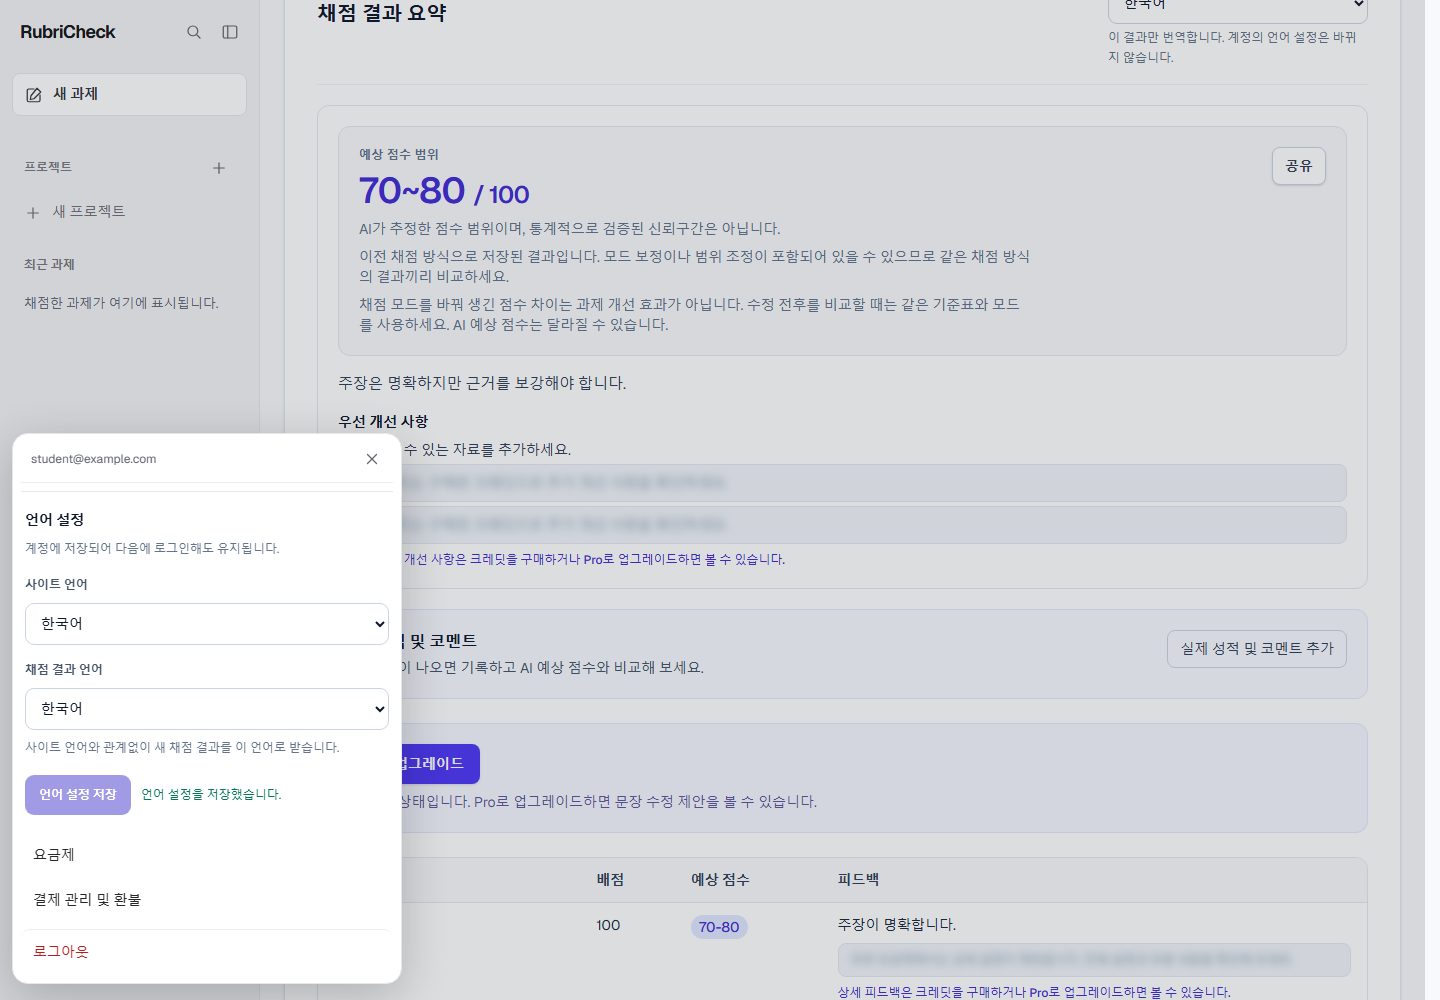
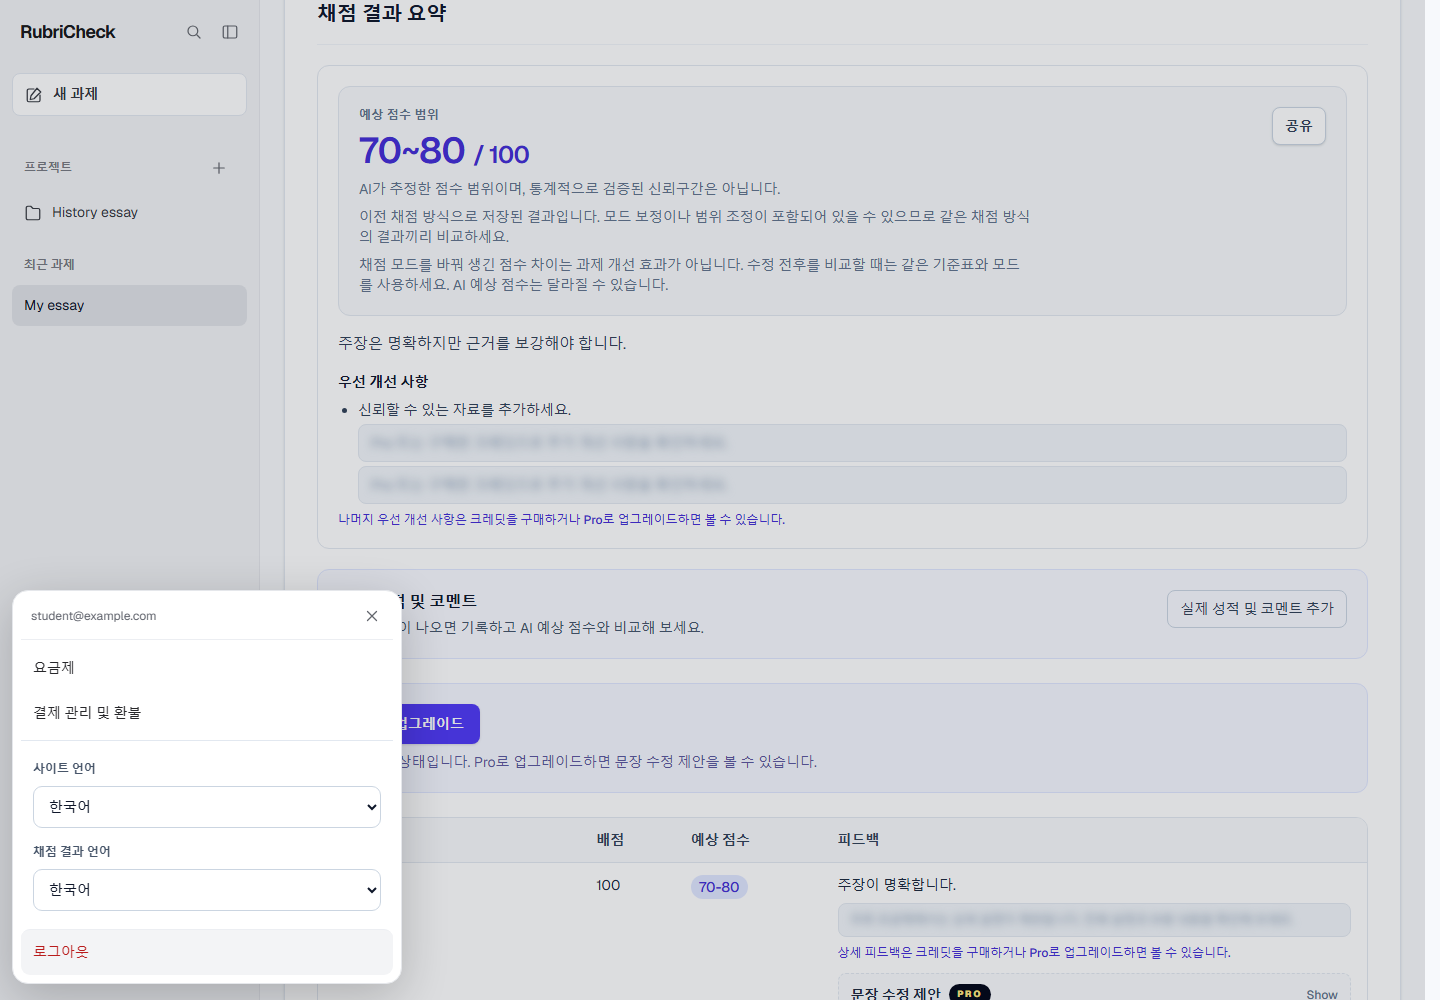
다국어

diff --git a/app/components/LanguageSettings.tsx b/app/components/LanguageSettings.tsx
@@ -1,7 +1,7 @@
 "use client";
 
-import { useEffect, useId, useState } from "react";
-import { LANGUAGE_NAMES, LOCALES, type Locale } from "../../src/i18n/config";
+import { useEffect, useId, useRef, useState } from "react";
+import { LANGUAGE_NAMES, LOCALES, type LanguagePreferences, type Locale } from "../../src/i18n/config";
 import { useLanguage } from "./LanguageProvider";
 import { useAccountSummary } from "./AccountSummaryProvider";
 import styles from "./language.module.css";
@@ -12,32 +12,36 @@ export function LanguageSettings() {
   const [site, setSite] = useState(siteLanguage);
   const [result, setResult] = useState(resultLanguage);
   const [saving, setSaving] = useState(false);
-  const [status, setStatus] = useState("");
   const [error, setError] = useState("");
+  const pending = useRef(false);
+  const owner = useRef(signedInEmail);
+  owner.current = signedInEmail;
   const id = useId();
-  useEffect(() => { setSite(siteLanguage); setResult(resultLanguage); }, [siteLanguage, resultLanguage]);
-  useEffect(() => { setStatus(""); setError(""); }, [signedInEmail]);
-  const changed = site !== siteLanguage || result !== resultLanguage;
-  return <form className={styles.settings} onSubmit={async event => {
-    event.preventDefault(); if (saving || preferencesLoading) return;
-    setSaving(true); setError(""); setStatus("");
-    try { await savePreferences({ siteLanguage: site, resultLanguage: result }); setStatus(signedInEmail ? "Language preferences saved." : "Language changed for this browser."); }
-    catch (error) { setError(error instanceof Error ? error.message : "Could not save language preferences. Try again."); }
-    finally { setSaving(false); }
-  }}>
-    <h3>{t("Language preferences")}</h3>
-    <p className={styles.help}>{t(signedInEmail ? "Saved to your account for your next visit." : "Log in to save both languages to your account.")}</p>
+  useEffect(() => { setSite(siteLanguage); setResult(resultLanguage); setError(""); }, [siteLanguage, resultLanguage, signedInEmail]);
+  async function change(preferences: LanguagePreferences) {
+    if (pending.current || preferencesLoading || (preferences.siteLanguage === siteLanguage && preferences.resultLanguage === resultLanguage)) return;
+    const email = signedInEmail;
+    pending.current = true;
+    setSaving(true); setError("");
+    setSite(preferences.siteLanguage); setResult(preferences.resultLanguage);
+    try { await savePreferences(preferences); }
+    catch {
+      if (owner.current === email) {
+        setSite(siteLanguage); setResult(resultLanguage);
+        setError("Could not save language preferences. Try again.");
+      }
+    } finally { pending.current = false; setSaving(false); }
+  }
+  return <div className={styles.settings} aria-busy={saving || preferencesLoading}>
     <label htmlFor={id + "-site"}>{t("Site language")}</label>
-    <select id={id + "-site"} value={site} disabled={saving || preferencesLoading} onChange={event => { setSite(event.target.value as Locale); setStatus(""); }}>
+    <select id={id + "-site"} value={site} disabled={saving || preferencesLoading} onChange={event => void change({ siteLanguage: event.target.value as Locale, resultLanguage: result })}>
       {LOCALES.map(locale => <option key={locale} value={locale} lang={locale}>{LANGUAGE_NAMES[locale]}</option>)}
     </select>
     <label htmlFor={id + "-result"}>{t("Grading result language")}</label>
-    <select id={id + "-result"} value={result} disabled={saving || preferencesLoading} onChange={event => { setResult(event.target.value as Locale); setStatus(""); }}>
+    <select id={id + "-result"} value={result} disabled={saving || preferencesLoading} onChange={event => void change({ siteLanguage: site, resultLanguage: event.target.value as Locale })}>
       {LOCALES.map(locale => <option key={locale} value={locale} lang={locale}>{LANGUAGE_NAMES[locale]}</option>)}
     </select>
-    <p className={styles.help}>{t("New feedback will use this language, independently of the site language.")}</p>
     {preferencesError && <p className={styles.error} role="alert">{t(preferencesError)} <button type="button" onClick={retryPreferences}>{t("Try again")}</button></p>}
     {error && <p className={styles.error} role="alert">{t(error)}</p>}
-    <div className={styles.saveRow}><button className={styles.save} type="submit" disabled={saving || preferencesLoading || !changed}>{t(saving ? "Saving…" : preferencesLoading ? "Loading…" : "Save languages")}</button><span role="status">{t(status)}</span></div>
-  </form>;
+  </div>;
 }

diff --git a/app/HomePageClient.tsx b/app/HomePageClient.tsx
@@ -3350,6 +3350,7 @@ export default function Home() {
         {displayedResult && resultOwnerEmail === signedInEmail && workspaceView !== "project" ? (
           <section ref={evaluationCaptureRef} className="rounded-2xl border border-slate-200 bg-white p-6 shadow-sm md:p-8">
             <div className={workspaceStyles.contextBar}>
+              <div className={workspaceStyles.resultContext}>
               <div className={workspaceStyles.contextTitle}>
                 <WorkspaceIcon name={activeAssignment?.projectId ? "folder" : "file"} />
                 {activeAssignment?.projectId ? <button onClick={() => { const project = workspace.data.projects.find(project => project.id === activeAssignment.projectId); if (project) openProject(project); }}>{workspace.data.projects.find(project => project.id === activeAssignment.projectId)?.name}</button> : <span>{t("Assignment")}</span>}
@@ -3363,6 +3364,8 @@ export default function Home() {
                 }}><option value="">{t("No project")}</option>{workspace.data.projects.map(project => <option key={project.id} value={project.id}>{project.name}</option>)}</select>}
                 {activeAssignment?.projectId && <button className={workspaceStyles.secondaryButton} disabled={workspaceBusy} onClick={() => startAssignment(activeAssignment.projectId)}>{t("New version")}</button>}
               </div>
+              </div>
+              <ResultLanguageSelect language={displayedResult.language} busy={translation.busy} error={translation.error} onChange={translation.change} unavailable={!displayedResult.evaluation_id} />
             </div>
             <div className="border-b border-slate-100 pb-4">
               <div className="flex flex-wrap items-center gap-2">
@@ -3379,7 +3382,6 @@ export default function Home() {
                 {displayedResult.hidden_ai_alert ? (
                   <span className="inline-flex items-center rounded-full border border-amber-300 bg-amber-50 px-2.5 py-1 text-xs font-semibold text-amber-800"> {t("Hidden AI text detected")} </span>
                 ) : null}
-                <ResultLanguageSelect language={displayedResult.language} busy={translation.busy} error={translation.error} onChange={translation.change} unavailable={!displayedResult.evaluation_id} />
               </div>
             </div>
 

diff --git a/app/components/language.module.css b/app/components/language.module.css
@@ -1,16 +1,12 @@
-.settings { display: grid; gap: 9px; padding: 18px 4px; border-top: 1px solid #e2e8f0; margin-top: 8px; text-align: left; }
-.settings h3 { font-size: 14px; font-weight: 650; color: #0f172a; }
+.settings { display: grid; gap: 8px; padding: 12px; border-top: 1px solid #e2e8f0; margin-top: 4px; text-align: left; }
 .settings label, .result label { font-size: 12px; font-weight: 600; color: #475569; }
 .settings label { margin-top: 7px; }
 .settings select, .result select { min-height: 42px; width: 100%; border: 1px solid #cbd5e1; border-radius: 9px; padding: 8px 32px 8px 11px; background: #fff; color: #0f172a; font-size: 14px; }
-.settings select:focus-visible, .result select:focus-visible, .save:focus-visible { outline: 2px solid #4f46e5; outline-offset: 3px; }
+.settings select:focus-visible, .result select:focus-visible { outline: 2px solid #4f46e5; outline-offset: 3px; }
 .help { font-size: 12px; line-height: 1.65; color: #64748b; overflow-wrap: anywhere; }
-.saveRow { display: flex; flex-wrap: wrap; gap: 10px; align-items: center; margin-top: 7px; }
-.saveRow span { font-size: 12px; color: #047857; }
-.save { min-height: 40px; border-radius: 9px; padding: 9px 14px; background: #4f46e5; color: #fff; font-weight: 600; font-size: 12px; }
-.save:hover { background: #4338ca; }
-.save:disabled, .settings select:disabled, .result select:disabled { opacity: .55; cursor: not-allowed; }
+.settings select:disabled, .result select:disabled { opacity: .55; cursor: not-allowed; }
 .error { font-size: 12px; line-height: 1.6; color: #b91c1c; }
 .error button { text-decoration: underline; }
-.result { margin-left: auto; width: min(100%, 260px); display: grid; gap: 5px; }
-@media (max-width: 639px) { .result { width: 100%; margin-top: 10px; } }
+.result { margin-left: auto; max-width: 100%; display: grid; grid-template-columns: auto minmax(0, 156px); align-items: center; gap: 6px 10px; }
+.result .help, .result .error { grid-column: 1 / -1; }
+@media (max-width: 639px) { .result { width: 100%; justify-content: space-between; } }

diff --git a/app/components/GuestExperience.tsx b/app/components/GuestExperience.tsx
@@ -169,10 +169,11 @@ export function GuestSummary({ result: original, signedIn, busy, onUnlock }: { r
     <div className={workspaceStyles.contextBar}>
       <div className={workspaceStyles.contextTitle}><WorkspaceIcon name="file" /><span>{t("Assignment")}</span></div>
       <span className="rounded-full bg-indigo-50 px-2.5 py-1 text-xs font-medium text-indigo-700">{t("Free preview")}</span>
+      <ResultLanguageSelect language={result.language} busy={translation.busy} error={translation.error} onChange={translation.change} />
     </div>
     <div className="border-b border-slate-100 pb-4">
       {result.grading_basis === "general" ? <span className="mb-2 inline-block rounded-full bg-slate-100 px-2.5 py-1 text-xs font-medium text-slate-600">{t("General criteria")}</span> : null}
-      <div className="flex flex-wrap items-start gap-3"><h2 tabIndex={-1} id="guest-evaluation-summary" className="text-xl font-semibold text-slate-900 focus:outline-none">{t("Evaluation Summary")}</h2><ResultLanguageSelect language={result.language} busy={translation.busy} error={translation.error} onChange={translation.change} /></div>
+      <h2 tabIndex={-1} id="guest-evaluation-summary" className="text-xl font-semibold text-slate-900 focus:outline-none">{t("Evaluation Summary")}</h2>
     </div>
     <SummaryCard score={formatOverallScoreDisplay(result.overall_range)} summary={result.summary} />
     <section aria-label={t("Locked evaluation criteria")} className="mt-6">

diff --git a/app/components/ResultLanguageSelect.tsx b/app/components/ResultLanguageSelect.tsx
@@ -49,11 +49,11 @@ export function ResultLanguageSelect({ language, busy, error, onChange, unavaila
   const id = useId();
   return <div className={styles.result} data-html2canvas-ignore="true">
     <label htmlFor={id}>{t("Result language")}</label>
-    <select id={id} value={language ?? "original"} disabled={busy || unavailable} aria-describedby={id + "-help"} aria-busy={busy} onChange={event => onChange(event.target.value as Locale | "original")}>
+    <select id={id} value={language ?? "original"} disabled={busy || unavailable} aria-describedby={busy || unavailable ? id + "-help" : undefined} aria-busy={busy} onChange={event => onChange(event.target.value as Locale | "original")}>
       <option value="original">{t("Original result")}</option>
       {LOCALES.map(locale => <option key={locale} value={locale} lang={locale}>{LANGUAGE_NAMES[locale]}</option>)}
     </select>
-    <p id={id + "-help"} className={styles.help} role="status">{t(busy ? "Translating…" : unavailable ? "Save this result to translate it later." : "This result only. Your account preferences stay the same.")}</p>
+    {(busy || unavailable) && <p id={id + "-help"} className={styles.help} role="status">{t(busy ? "Translating…" : "Save this result to translate it later.")}</p>}
     {error && <p className={styles.error} role="alert">{t(error)}</p>}
   </div>;
 }

diff --git a/app/components/AssignmentSidebar.tsx b/app/components/AssignmentSidebar.tsx
@@ -129,11 +129,11 @@ export function AssignmentSidebar(props: Props) {
     <dialog ref={account} className={styles.accountDialog} aria-label={t("Account menu")} onClick={event => { if (event.target === event.currentTarget) account.current?.close(); }}>
       <div className={styles.accountBody}>
         <div className={styles.accountHeading}><span className={styles.email} title={props.email}>{props.email || t("Language preferences")}</span><button className={styles.iconButton} aria-label={t("Close account menu")} onClick={() => account.current?.close()}><WorkspaceIcon name="close" /></button></div>
-        <LanguageSettings />
         <nav aria-label={t("Account")}>
           {props.canAccessAdmin && <Link href={href("/admin")} className={styles.accountItem} onClick={closeAccount}>{t("Admin")}</Link>}
           <button className={styles.accountItem} onClick={() => { closeAccount(); props.onPricing(); }}>{t("Pricing")}</button>
           <Link href={href("/billing/manage")} className={styles.accountItem} onClick={closeAccount}>{t("Billing and refunds")}</Link>
+          <LanguageSettings />
           {props.email && <button className={`${styles.accountItem} ${styles.logoutItem}`} onClick={() => { closeAccount(); props.onLogout(); }}>{t("Log out")}</button>}
         </nav>
       </div>

diff --git a/app/components/assignmentWorkspace.module.css b/app/components/assignmentWorkspace.module.css
@@ -89,6 +89,7 @@
 .contextBar select { max-width: min(250px, 65vw); padding: 8px 28px 8px 10px; border: 1px solid #e5e7eb; border-radius: 8px; background: white; font-size: 13px; color: #52525b; }
 .contextTitle { display: flex; align-items: center; gap: 8px; min-width: 0; }
 .contextTitle { max-width: 100%; }
+.resultContext { display: flex; align-items: center; flex-wrap: wrap; gap: 10px; min-width: 0; max-width: 100%; }
 .contextTitle button { overflow: hidden; text-overflow: ellipsis; white-space: nowrap; max-width: min(260px, 55vw); cursor: pointer; }
 .contextTitle button:hover { color: #111827; }
 .contextActions { display: flex; align-items: center; gap: 8px; flex-wrap: wrap; }
